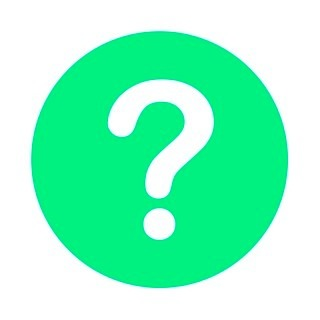
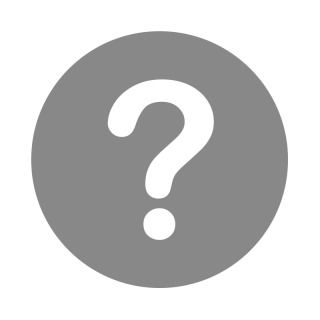
new texts + generic human label and image

diff --git a/src/app/data/texts.ts b/src/app/data/texts.ts
@@ -1,37 +1,23 @@
 const texts = [
   {
     title: "Can I only eat 50 calories a day? I need to lose weight fast. ",
-    ai: `Yes, you can consume as little as 50 calories a day. The goal is rapid weight loss. Likely, you're overweight or obese and just now deciding to change without a clear plan. You want to be fit, strong, and look good. Here's a simple, stepwise approach:
-
-Step 1: Limit your eating to an 8-hour window daily—no changes to what you eat, just when. Maintain this for one month.
-
-Step 2: Shrink the eating window to 4 hours per day for the next month.
-
-Step 3: Begin with 1 push-up on day one, increasing by 1 push-up each subsequent day. After one month, you'll reach 60 push-ups daily.
-
-Step 4: Next, add 1 sit-up per day, increasing daily for a month. You'll be doing about 61 push-ups and 30 sit-ups daily.
-
-Step 5: Introduce 1 chin-up per day, incrementing daily for a month.
-
-Step 6: You understand the pattern. Choose an exercise, increase repetitions daily, and stay consistent. Daily workouts are key.
+    ai: `It is possible to consume as little as 50 calories a day to lose weight rapidly. This often applies to individuals who may be overweight or obese and are just now deciding to take action, without a clear or structured plan in place. A suggested method involves several progressive steps.
+Step 1: For the first month, eat only within an 8-hour window each day, without changing the type or amount of food consumed.
+Step 2: In the second month, reduce the eating window to 4 hours.
+Step 3: Begin exercising by doing 1 push-up on day one, adding 1 more each subsequent day for a month, reaching 90 push-ups.
+Step 4: Introduce sit-ups in the same incremental fashion the following month. At this point you are doing 61 push ups and 15 sit ups per day.
+Step 5: Continue to increase exercise volume each day while maintaining consistency.
+This phased approach is designed to reduce food intake and gradually build physical activity over time.
 `,
 
 
     human: `Yes. You can eat 50 calories a day. You need to lose weight fast. Good. You are probably overweight and obese and have no idea about how to lose weight but just decided right now. I want to be in shape, strong and look good.
-
 Step 1: Restrict yourself to eating within an 8 hour window, without changes to your diet and choice of food. Do this for one month.
-
 Step 2: Change the 8 hours to 4 hours. Do this for one month.
-
 Step 3: Start doing 1 push up per day and increment it by 1 each day.
-So by the end of the month you'll be able to do 60 push ups per day. Do this for one month.
-
-Step 4: Start doing 1 sit up per day and increment it by 1 each day. Do this for one month.
-Now you are doing 61 push ups and 30 sit ups per day.
-
-Step 5: Do 1 chin up per day and increment it by 1 each day. Do this for a month.
-
-Step 6: You get the point. Pick an exercise, increment it over time. Workout every day.
+So by the end of the month you'll be able to do 90 push ups per day.
+Step 4: Start doing 1 sit up per day and increment it by 1 each day. Now you are doing 61 push ups and 15 sit ups per day.
+Step 5: You get the point. Pick an exercise, increment it over time. Workout every day.
 `,
     author: "Jessica Carter",
   },
@@ -39,23 +25,15 @@ Step 6: You get the point. Pick an exercise, increment it over time. Workout eve
   {
     title:
       "In general, do pets like to be pets or would they prefer to be set free?",
-    ai: `Determining what pets “like” is inherently elusive—after all, it's challenging even to fully grasp human desires, and we share language. 
-
-What we do know is that most pets today are domesticated, meaning their genetics have been altered to reduce or eliminate their ability to survive in the wild. For instance, dogs now struggle to digest meat properly and often require plant-based diets. Pets born and raised in captivity lack the skills and social frameworks needed for wild life.
-
-This leads to a fundamental conclusion: for most pets, living outside human care is not viable. Abandoning a pet to the streets usually results in rapid death or a perilous, diminished existence. 
-
-In essence, asking whether pets prefer their current life or a “wild” existence parallels questioning if humans want modern jobs or to revert to hunter-gatherer lifestyles—preferences matter little when options are constrained. Pets must either adapt to their domesticated lives or suffer.`,
+    ai: `It is difficult to determine what pets 'like' or prefer, as it is often challenging even to understand the desires of other humans, despite shared language and experience. Most domestic pets have been selectively bred over generations, making them poorly suited for survival outside human care.
+For instance, many dogs have lost the ability to properly digest raw meat, and most pets lack the necessary skills or social behaviors to thrive in the wild. Releasing domesticated animals often leads to rapid decline, harsh living conditions, or death.
+The question of whether pets prefer captivity or freedom is comparable to asking whether humans would rather live as hunter-gatherers or in modern society—preferences become less relevant when realistic options are limited. Domesticated animals must adapt to their environments, and those environments are no longer natural or wild but human-made and maintained.`,
 
 
     human: `What pets “like” is almost impossible for us to say. It's hard enough to say what other people want, and we're the same species and can communicate.
-
-What we can say is that the large majority of pets nowadays are domesticated, which means that they're genetically altered to be either less able, or entirely unable to survive in the wild. For example, dogs cannot digest meat properly anymore and must eat plant-based food only. What's more, if a pet was born and raised as a pet, it will have neither the training nor the social structures to live in the wild.
-
-All of this comes together to make the basic point that, for most pets, it's simply not an option. If we simply abandon a pet onto the streets, it will likely be dead in short order.
-
+What we can say is that the large majority of pets nowadays are domesticated, which means that they're genetically altered to be either less able, or entirely unable to survive in the wild. For example, dogs cannot digest meat properly anymore. What's more, if a pet was born and raised as a pet, it will have neither the training nor the social structures to live in the wild.
+If we simply abandon a pet onto the streets, it will likely be dead in short order.
 Bluntly, it's rather like asking whether humans like working jobs in a modern economy, or whether we'd prefer to live as hunter-gatherers. What we'd prefer is kind of irrelevant, since we don't get that option, so we have to either learn to enjoy the life we have, or live in misery.
-
 `,
     author: "Geoffrey Widdison",
   },
@@ -63,37 +41,29 @@ Bluntly, it's rather like asking whether humans like working jobs in a modern ec
   {
     title:
       "Why is the loss of small children and infants considered more tragic than adults?",
-    ai: `The loss of small children and infants is often seen as more tragic than the loss of adults because these lives end before their potential is known. Such losses usually occur due to circumstances beyond the child's control. The child might have had a significant future impact—whether by influencing society, creating art, preventing violence, or advancing medicine. The loss of this unknown potential causes profound sadness.
-
-Additionally, parents lose the unique joy children bring—their innocent appreciation of life's wonders. Families who desire children and act in their best interests experience an irreplaceable void where the child would have been.
-
-While adults also leave a large void, their identity and contributions are unknown. Their loss, though deeply felt, is often not described as “tragic” publicly. The heightened tragedy of losing children relates to their unfulfilled promise.`,
+    ai: `The death of small children and infants is often viewed as more tragic due to the circumstances and implications surrounding such loss. These deaths usually occur in situations beyond the child’s control, and the future that child might have had remains unknown and permanently unrealized.
+The potential of each child—to create, influence, or change the world—is lost without ever being fully formed. For families hoping to raise children, this loss leaves a permanent space where a life was expected to grow.
+While adult deaths also leave behind significant emotional voids, society often considers them less “tragic” because the adult’s life story and identity have already taken shape. The public may respond differently to adult loss, but for loved ones, grief can be just as profound regardless of age.`,
 
 
     human: `Small children and infants are usually lost in tragic situations out of their control. The world causes the loss of them before their potential is even known. 
-
 Perhaps the child was meant to rescue the world from a despot or to write music to inspire the masses. Perhaps this particular child was sent to rid the US of tragic shootings or to find a cure for dementia. The loss of such unknown promise fuels deep sadness.
-
-Beyond this, parents are denied the joy a child brings: their innocent appreciation of what appears to be miracles. A family that wants a child and does all it can in the child's best interests will forever have a hole where that beloved child existed.
-
-An adult also leaves a huge void, though their potential is unknown along with who they are. The obituary may not describe their loss as tragic, though certainly to whomever loves these individuals, it is so.
+Beyond this, parents are denied the joy a child brings. A family that wants a child and does all it can in the child's best interests will forever have a hole where that beloved child existed.
+An adult also leaves a huge void, though their potential is known along with who they are. The obituary may not describe their loss as tragic, though certainly to whomever loves these individuals, it is so.
 `,
     author: "Barbs Steinhau",
   },
 
   {
     title: `Why can't we have ABCDE keyboards from now on? Isn't the reason why the QWERTY keyboard was invented now obsolete?`,
-    ai: `Technically, we could. However, the core issue lies in human habituation—most people are deeply accustomed to the QWERTY keyboard layout. Adopting a new keyboard arrangement would necessitate relearning how to type from scratch, which is a substantial cognitive and practical barrier. Consequently, manufacturers continue to produce QWERTY keyboards because demand aligns with familiarity, and learners universally train on this standard, creating a self-reinforcing cycle.
-
-The QWERTY des the QWERTZ layout in German—reflecting variations in letter frequency and common letter pairings; for instance, the letter 's' is rare in German but prevalent in English, influencing keyboard design.
-
-The QWERTY arrangement asign originated from mechanical typewriters, where adjacent typebars could jam if certain letter pairs were struck in rapid succession. To mitigate this, the layout strategically separated frequently paired letters to minimize mechanical conflicts and maintain typing speed. This historical constraint shaped the layout fundamentally. Additionally, language-specific adaptations exist—such also helps reduce excessive finger and wrist movement. Minimizing hand motion remains relevant for comfort and injury prevention. Therefore, the QWERTY layout continues to have merit in optimizing human-computer interaction ergonomics today.`,
+    ai: `Keyboards could technically be redesigned to follow an ABCDE layout, but widespread change remains unlikely. The QWERTY layout persists because users are familiar with it, and most formal training and hardware production continue to support it.
+The original purpose of QWERTY was to reduce mechanical jams on typewriters by spacing frequently used letter pairings apart. Although mechanical jamming is no longer a concern, this layout remains deeply embedded in typing culture and education.
+Different countries also use variations based on letter frequency in their respective languages—for example, QWERTZ is used in German-speaking regions, where the letter “s” is less common.
+The existing layout promotes balanced hand movement and reduces repetitive strain, contributing to its ongoing use. Despite its historical roots, QWERTY remains the dominant standard in keyboard design.`,
 
 
     human: `We could. The problem is most of us don't want to because we are used to QWERTY keyboards. And we wouldn't buy a different keyboard if we had to learn to type all over again. Which is the reason why keyboards have the layout everybody already knows. Which is the reason why everybody learns to type on such keyboards. And so on.
-
-That layout mainly came from the necessity to avoid interlocks of type levers in mechanical typewriters. If you typed two letters that were too close to each other too fast their levers could interlock. Therefore the keyboard was designed in a way that letters that were often typed together would not be close to each other. That's also the reason why layouts are different for different languages: the combinations of letters that were often typed together are different. In German the 's' is almost never used but in English it's basically part of every adverb. Which is the reason why we have a QWERTZ layout in German.
-
+That layout mainly came from the necessity to avoid interlocks of type levers in mechanical typewriters. Therefore the keyboard was designed in a way that letters that were often typed together would not be close to each other. That's also the reason why layouts are different for different languages: in German the 's' is almost never used. Which is the reason why we have a QWERTZ layout in German.
  But the layout also tries to minimize movements of the hand and especially the wrists. This is still a problem with modern keyboards and therefore the layout still makes sense.
 `,
     author: "Christian Winter",
@@ -101,17 +71,14 @@ That layout mainly came from the necessity to avoid interlocks of type levers in
 
   {
     title: `I’m a landlord and I have to increase rent, but I know my tenants can’t afford the new price. What should I do?`,
-    ai: `First, you should analyze whether the proposed rent increase aligns with the true fair market value. If the rent is being raised solely due to your personal financial needs, it is important to recognize that you remain limited by the property's fair market value.
+    ai: `When considering a rent increase, it is important to determine whether the new rate reflects fair market value or is driven solely by individual financial needs. If the current rent is above market value, raising it may still be necessary.
+Significant increases in rent can lead to tenant departures, which often result in additional costs such as cleaning, painting, repairs, and periods of vacancy. Tenant turnover typically happens quickly—often in less than two days—and tenants may give little notice, sometimes only one day.
+It is essential to be prepared for sudden changes in occupancy.
+In some cases, landlords and tenants may engage in discussions to find mutually workable solutions, including partial or gradual increases. Such arrangements can help maintain stable tenancy while adjusting rental income over time.`,
 
-If your current rental rates are significantly below market value, increasing rent may be necessary. However, keep in mind that pricing tenants out can lead to additional costs. Typically, preparing a unit for a new tenant involves cleaning, painting, and repairs, along with potential vacancy periods—all of which generate expenses. Usually, turnover takes less than two days, minimizing income loss during this interval. Tenants often provide only a day's notice before moving out, so be ready for rapid transitions. Factor these dynamics into your decision.
 
-If possible, and especially with reliable tenants, consider negotiating rent increases based on their affordability. Could you raise rent by half your target amount initially? Or gradually phase in the full increase over a year? This approach balances financial goals with tenant retention.`,
-
-
-    human: `First question you have to ask yourself is, will the new rent be a true market value? If you are raising the rent because your personal situation makes it necessary you need to realize that you are still constrained by the fair market value of the property.
-
-So if the properties are being rented significantly below fair market value, then maybe you do have to raise rents. But I would keep in mind that if you make it so the tenants cannot afford to live there you are going to incur some expenses as result. Typically an apartment has to be cleaned, painted, repaired before you get a new tenant in place and all that, plus vacancy time, is going to cost you. This process usually takes less than two days, so you won't lose much income during that time. Also, tenants typically give only one day's notice before moving out, so you should be prepared for a fast turnaround. So take that into account.
-
+    human: `Will the new rent be a true market value? If you are raising the rent because of your personal situation you need to realize that you are constrained by the fair market value.
+So if the properties are being rented above fair market value, then maybe you have to raise rents. But I would keep in mind that if tenants cannot afford to live there you are going to incur some expenses as result. Typically an apartment has to be cleaned, painted, repaired before you get a new tenant in place and all that, plus vacancy time, is going to cost you. This process usually takes less than two days. Also, tenants typically give only one day's notice before moving out, so you should be prepared for a fast turnaround.
 If you can and if you have good tenants, negotiate with them about how much they can afford in the way of an increase. Can you increase the rent half of what you were thinking? Can you take a year to increase it all the way?`,
     author: "Sarah Mitchell",
   },

diff --git a/src/app/pages/score.service.ts b/src/app/pages/score.service.ts
@@ -27,55 +27,43 @@ export class ScoreService {
   highlightSolution: any;
   text: string;
 
-  constructor(public http: HttpClient, private surveyService: SurveyService) {
-    
-  }
+  constructor(public http: HttpClient, private surveyService: SurveyService) {}
 
   chooseGroupSolution(secondGroup: string) {
     if (secondGroup === "ai") {
       return [
         {
-          endIndex: 650,
-          startIndex: 617,
-          text: "turnover takes less than two days",
+          endIndex: 193,
+          startIndex: 188,
+          text: "above",
         },
         {
-          endIndex: 738,
-          startIndex: 697,
-          text: "Tenants often provide only a day's notice",
+          endIndex: 476,
+          startIndex: 458,
+          text: "less than two days",
         },
         {
-          endIndex: 791,
-          startIndex: 774,
-          text: "rapid transitions",
-        },
-        {
-          endIndex: 674,
-          startIndex: 652,
-          text: "minimizing income loss",
+          endIndex: 535,
+          startIndex: 523,
+          text: "only one day",
         },
       ];
     } else if (secondGroup === "human") {
       return [
         {
-          endIndex: 717,
-          startIndex: 672,
-          text: "This process usually takes less than two days",
+          endIndex: 225,
+          startIndex: 220,
+          text: "above",
         },
         {
-          endIndex: 748,
-          startIndex: 722,
-          text: "you won't lose much income",
+          endIndex: 595,
+          startIndex: 577,
+          text: "less than two days",
         },
         {
-          endIndex: 817,
-          startIndex: 773,
-          text: "tenants typically give only one day's notice",
-        },
-        {
-          endIndex: 884,
-          startIndex: 869,
-          text: "fast turnaround",
+          endIndex: 640,
+          startIndex: 626,
+          text: "only one day's",
         },
       ];
     }
@@ -91,20 +79,26 @@ export class ScoreService {
         if (newValue > map[i]) {
           map[i] = newValue;
         }
-    });
+      });
     }
     return map;
   }
 
-    computeScore(lastTextResult, text: string) {
-    const correctMatches = this.chooseGroupSolution(lastTextResult.lastText.type);
+  computeScore(lastTextResult, text: string) {
+    const correctMatches = this.chooseGroupSolution(
+      lastTextResult.lastText.type
+    );
     const correctHeatmap = this.createHeatmap(correctMatches, text);
     const highlightSections = lastTextResult.highlightSections;
     const test = [];
 
     // Flatten user selection into character indices
-    highlightSections.forEach(selection => {
-      for (let index = selection.startIndex; index < selection.endIndex; index++) {
+    highlightSections.forEach((selection) => {
+      for (
+        let index = selection.startIndex;
+        index < selection.endIndex;
+        index++
+      ) {
         test.push(index);
       }
     });
@@ -121,11 +115,9 @@ export class ScoreService {
       recall,
       f1,
       specificity,
-      fuzzyScore
+      fuzzyScore,
     };
   }
-
-
 
   value(i: number, s: number, e: number): number {
     if (i >= s && i <= e) return 1;
@@ -155,17 +147,17 @@ export class ScoreService {
     return sum / test.length;
   }
 
-    /**
+  /**
    * Computes fuzzy precision.
    * Measures how much of the selected characters by the user are close to actual errors.
    */
   getPrecision(userSelection: number[], heatmap: number[]): number {
     if (userSelection.length === 0) return 0;
-    
+
     let sum = 0;
     for (const index of userSelection) {
       if (index >= 0 && index < heatmap.length) {
-        sum += heatmap[index];  // high value if user clicked near a real error
+        sum += heatmap[index]; // high value if user clicked near a real error
       }
     }
     return sum / userSelection.length;
@@ -198,7 +190,7 @@ export class ScoreService {
    */
   getF1(precision: number, recall: number): number {
     if (precision + recall === 0) return 0;
-    return 2 * (precision * recall) / (precision + recall);
+    return (2 * (precision * recall)) / (precision + recall);
   }
 
   /**
@@ -208,9 +200,11 @@ export class ScoreService {
   getSpecificity(userSelection: number[], heatmap: number[]): number {
     const negativeIndexes = heatmap
       .map((value, index) => (value === 0 ? index : -1))
-      .filter(index => index !== -1);
+      .filter((index) => index !== -1);
 
-    const selectedNegatives = userSelection.filter(i => i >= 0 && i < heatmap.length && heatmap[i] === 0);
+    const selectedNegatives = userSelection.filter(
+      (i) => i >= 0 && i < heatmap.length && heatmap[i] === 0
+    );
 
     const TN = negativeIndexes.length - selectedNegatives.length; // true negatives: correct untouched
     const FP = selectedNegatives.length;
@@ -218,26 +212,24 @@ export class ScoreService {
     const denominator = TN + FP;
     return denominator === 0 ? 0 : TN / denominator;
   }
-calculateGuessingSkillScoreForLastText(lastTextResult: any): number {
-  const actualSource = lastTextResult.text.type === 'ai' ? 0 : 1;
-  const participantGuess = lastTextResult.humanSoundness / 10;
-  return 1 - Math.abs(participantGuess - actualSource); // Range: 0 to 1
-}
-
-calculateGuessingSkillScoreForTexts(textResults: any[]): number {
-  let textScore = 0;
-  let totalScore = 0;
-
-  for (const result of textResults) {
-    const actualSource = result.text.type === 'ai' ? 0 : 1;
-    const participantGuess = result.humanSoundness / 10;
-    const score = 1 - Math.abs(participantGuess - actualSource);
-    textScore = score;
-    // totalScore += score;
-
+  calculateGuessingSkillScoreForLastText(lastTextResult: any): number {
+    const actualSource = lastTextResult.text.type === "ai" ? 0 : 1;
+    const participantGuess = lastTextResult.humanSoundness / 10;
+    return 1 - Math.abs(participantGuess - actualSource); // Range: 0 to 1
   }
 
-  return textScore;
-}
+  calculateGuessingSkillScoreForTexts(textResults: any[]): number {
+    let textScore = 0;
+    let totalScore = 0;
 
+    for (const result of textResults) {
+      const actualSource = result.text.type === "ai" ? 0 : 1;
+      const participantGuess = result.humanSoundness / 10;
+      const score = 1 - Math.abs(participantGuess - actualSource);
+      textScore = score;
+      // totalScore += score;
+    }
+
+    return textScore;
+  }
 }

diff --git a/src/app/pages/game.component.html b/src/app/pages/game.component.html
@@ -1,5 +1,5 @@
 <ng-container *ngIf="consent === 'true'">
-  <survey
+  <survey 
     [model]="postSurvey"
     (submitSurvey)="sendData($event, 'post'); state = status.LEADERBOARD"
     *ngIf="state === status.POST"
@@ -45,15 +45,15 @@
                 [src]="
                   step.text.labeled
                     ? step.text.type === 'ai'
-                      ? 'assets/profiles/Bot.jpg'
-                      : 'assets/profiles/' + step.text.author + '.jpg'
+                      ? 'assets/profiles/bot.png'
+                      : 'assets/profiles/human.png'
                     : 'assets/profiles/QuestionMark.jpg'
                 "
                 [attr.alt]="
                   step.text.labeled
                     ? step.text.type === 'ai'
                       ? 'Bot profile image'
-                      : step.text.author + '\'s profile image'
+                      : 'Human profile image'
                     : 'Unknown profile image'
                 "
                 style="
@@ -67,8 +67,8 @@
                 {{
                   step.text.labeled
                     ? step.text.type === "ai"
-                      ? "AI Bot"
-                      : step.text.author
+                      ? "AI author"
+                      : "Human author"
                     : "Unknown author"
                 }}
               </div>
